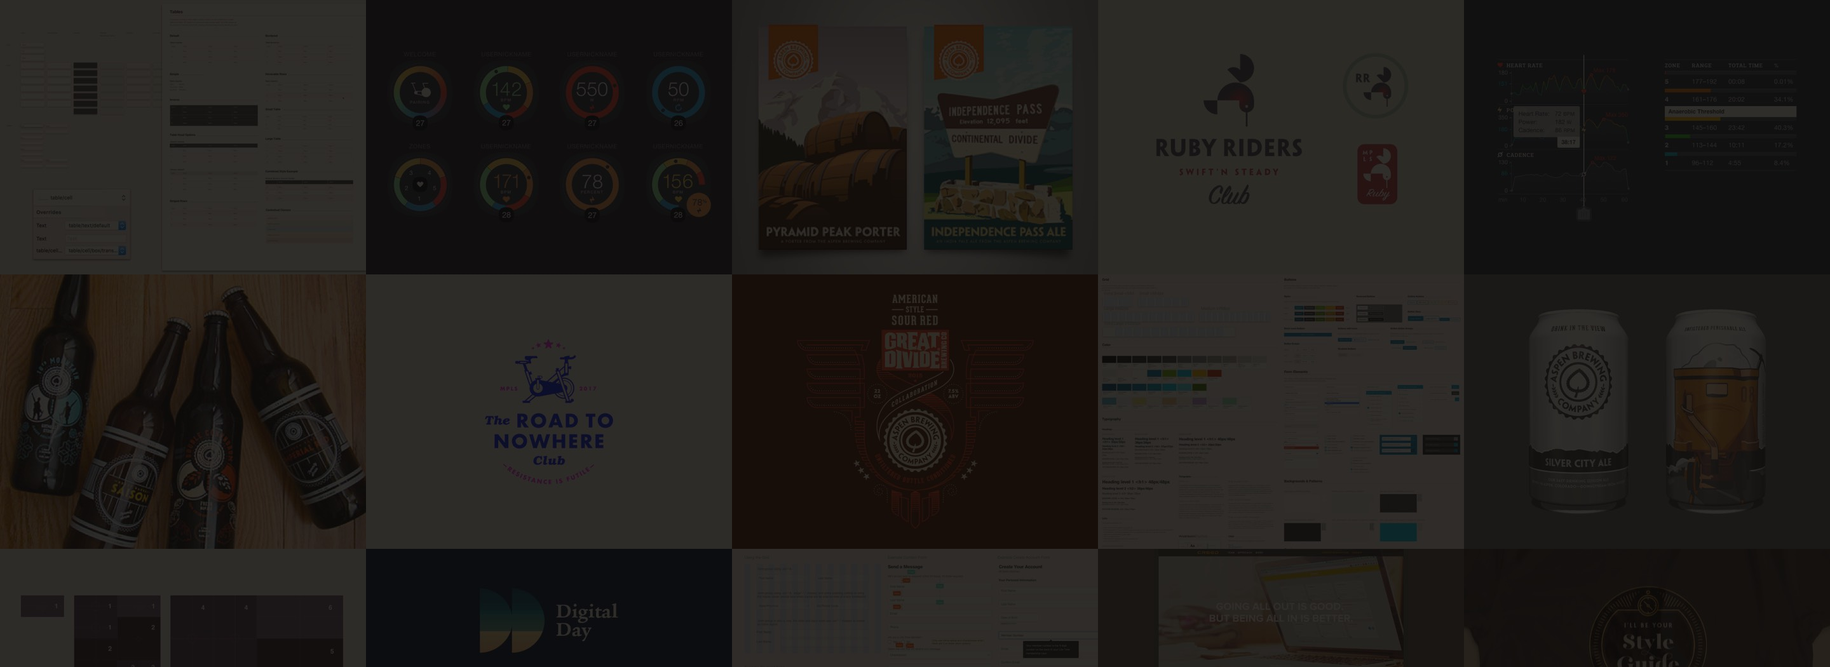
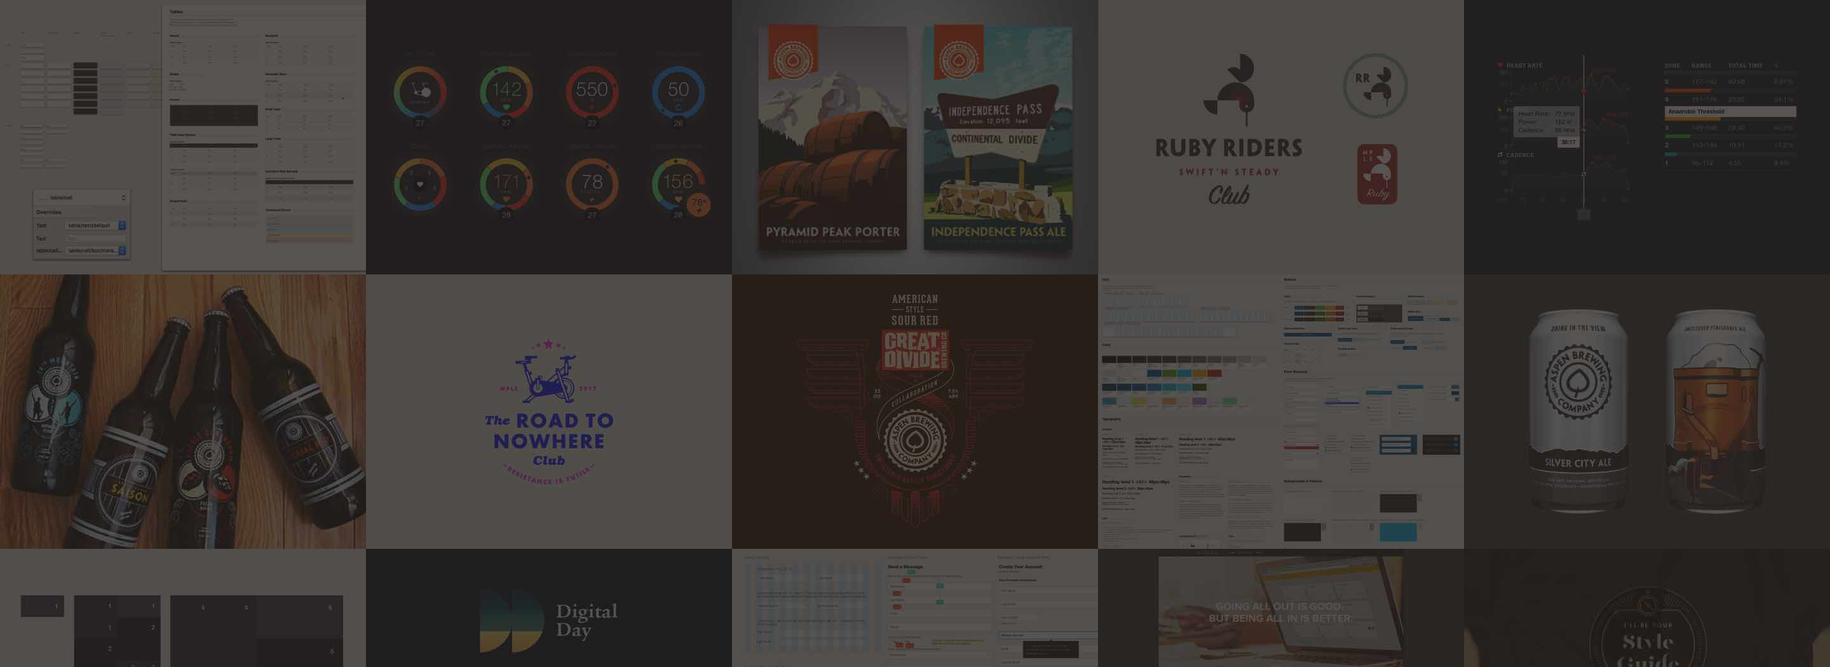
Lighten things up.

diff --git a/dist/css/style.css b/dist/css/style.css
@@ -1,2 +1,2 @@
-/*! normalize.scss v0.1.0 | MIT License | based on git.io/normalize */html{font-family:sans-serif;-ms-text-size-adjust:100%;-webkit-text-size-adjust:100%}body{margin:0}article,aside,details,figcaption,figure,footer,header,hgroup,main,menu,nav,section,summary{display:block}audio,canvas,progress,video{display:inline-block;vertical-align:baseline}audio:not([controls]){display:none;height:0}[hidden],template{display:none}a{background-color:transparent}a:active,a:hover{outline:0}abbr[title]{border-bottom:1px dotted}b,strong{font-weight:700}dfn{font-style:italic}h1{font-size:2em;margin:.67em 0}mark{background:#ff0;color:#000}small{font-size:80%}sub,sup{font-size:75%;line-height:0;position:relative;vertical-align:baseline}sup{top:-.5em}sub{bottom:-.25em}img{border:0}svg:not(:root){overflow:hidden}figure{margin:1em 40px}hr{box-sizing:content-box;height:0}pre{overflow:auto}code,kbd,pre,samp{font-family:monospace,monospace;font-size:1em}button,input,optgroup,select,textarea{color:inherit;font:inherit;margin:0}button{overflow:visible}button,select{text-transform:none}button,html input[type=button],input[type=reset],input[type=submit]{-webkit-appearance:button;cursor:pointer}button[disabled],html input[disabled]{cursor:default}button::-moz-focus-inner,input::-moz-focus-inner{border:0;padding:0}input{line-height:normal}input[type=checkbox],input[type=radio]{box-sizing:border-box;padding:0}input[type=number]::-webkit-inner-spin-button,input[type=number]::-webkit-outer-spin-button{height:auto}input[type=search]{-webkit-appearance:textfield;box-sizing:content-box}input[type=search]::-webkit-search-cancel-button,input[type=search]::-webkit-search-decoration{-webkit-appearance:none}fieldset{border:1px solid silver;margin:0 2px;padding:.35em .625em .75em}legend{border:0;padding:0}textarea{overflow:auto}optgroup{font-weight:700}table{border-collapse:collapse;border-spacing:0}td,th{padding:0}.wrap{height:100%;margin-left:auto;margin-right:auto;min-height:100%;width:100%}.wrap:after{content:' ';display:table;clear:both}.container{margin:0 auto;max-width:1200px;padding-left:16px;padding-right:16px;position:relative;width:100%}.container:after{content:' ';display:table;clear:both}.row{margin-left:-16px;margin-right:-16px;display:-webkit-box;display:-ms-flexbox;display:flex;-webkit-box-orient:horizontal;-webkit-box-direction:normal;-ms-flex-flow:row wrap;flex-flow:row wrap}.row:after{content:' ';display:table;clear:both}@media only screen and (min-width:768px){.row-collapse{margin-left:0;margin-right:0}}[class*=col-],[class^=col-]{box-sizing:border-box;float:left;min-height:1px;padding-left:16px;padding-right:16px;position:relative;width:100%}.col-collapse{padding-left:0;padding-right:0}@media only screen and (max-width:0){.col-xs-1{width:8.33333%}.col-xs-2{width:16.66667%}.col-xs-3{width:25%}.col-xs-4{width:33.33333%}.col-xs-5{width:41.66667%}.col-xs-6{width:50%}.col-xs-7{width:58.33333%}.col-xs-8{width:66.66667%}.col-xs-9{width:75%}.col-xs-10{width:83.33333%}.col-xs-11{width:91.66667%}.col-xs-12{width:100%}.col-xs-offset-1{margin-left:8.33333%}.col-xs-offset-2{margin-left:16.66667%}.col-xs-offset-3{margin-left:25%}.col-xs-offset-4{margin-left:33.33333%}.col-xs-offset-5{margin-left:41.66667%}.col-xs-offset-6{margin-left:50%}.col-xs-offset-7{margin-left:58.33333%}.col-xs-offset-8{margin-left:66.66667%}.col-xs-offset-9{margin-left:75%}.col-xs-offset-10{margin-left:83.33333%}.col-xs-offset-11{margin-left:91.66667%}.col-sm-offset-0{margin-left:0}.col-xs-push-1{left:8.33333%}.col-xs-push-2{left:16.66667%}.col-xs-push-3{left:25%}.col-xs-push-4{left:33.33333%}.col-xs-push-5{left:41.66667%}.col-xs-push-6{left:50%}.col-xs-push-7{left:58.33333%}.col-xs-push-8{left:66.66667%}.col-xs-push-9{left:75%}.col-xs-push-10{left:83.33333%}.col-xs-push-11{left:91.66667%}.col-xs-push-0{left:auto}.col-pull-1{right:8.33333%}.col-pull-2{right:16.66667%}.col-pull-3{right:25%}.col-pull-4{right:33.33333%}.col-pull-5{right:41.66667%}.col-pull-6{right:50%}.col-pull-7{right:58.33333%}.col-pull-8{right:66.66667%}.col-pull-9{right:75%}.col-pull-10{right:83.33333%}.col-pull-11{right:91.66667%}.col-xs-pull-0{right:auto}}@media only screen and (min-width:544px){.col-sm-1{width:8.33333%}.col-sm-2{width:16.66667%}.col-sm-3{width:25%}.col-sm-4{width:33.33333%}.col-sm-5{width:41.66667%}.col-sm-6{width:50%}.col-sm-7{width:58.33333%}.col-sm-8{width:66.66667%}.col-sm-9{width:75%}.col-sm-10{width:83.33333%}.col-sm-11{width:91.66667%}.col-sm-12{width:100%}.col-sm-offset-1{margin-left:8.33333%}.col-sm-offset-2{margin-left:16.66667%}.col-sm-offset-3{margin-left:25%}.col-sm-offset-4{margin-left:33.33333%}.col-sm-offset-5{margin-left:41.66667%}.col-sm-offset-6{margin-left:50%}.col-sm-offset-7{margin-left:58.33333%}.col-sm-offset-8{margin-left:66.66667%}.col-sm-offset-9{margin-left:75%}.col-sm-offset-10{margin-left:83.33333%}.col-sm-offset-11{margin-left:91.66667%}.col-sm-offset-0{margin-left:0}.col-sm-push-1{left:8.33333%}.col-sm-push-2{left:16.66667%}.col-sm-push-3{left:25%}.col-sm-push-4{left:33.33333%}.col-sm-push-5{left:41.66667%}.col-sm-push-6{left:50%}.col-sm-push-7{left:58.33333%}.col-sm-push-8{left:66.66667%}.col-sm-push-9{left:75%}.col-sm-push-10{left:83.33333%}.col-sm-push-11{left:91.66667%}.col-sm-push-0{left:auto}.col-sm-pull-1{right:8.33333%}.col-sm-pull-2{right:16.66667%}.col-sm-pull-3{right:25%}.col-sm-pull-4{right:33.33333%}.col-sm-pull-5{right:41.66667%}.col-sm-pull-6{right:50%}.col-sm-pull-7{right:58.33333%}.col-sm-pull-8{right:66.66667%}.col-sm-pull-9{right:75%}.col-sm-pull-10{right:83.33333%}.col-sm-pull-11{right:91.66667%}.col-sm-pull-0{right:auto}}@media only screen and (min-width:768px){.col-md-1{width:8.33333%}.col-md-2{width:16.66667%}.col-md-3{width:25%}.col-md-4{width:33.33333%}.col-md-5{width:41.66667%}.col-md-6{width:50%}.col-md-7{width:58.33333%}.col-md-8{width:66.66667%}.col-md-9{width:75%}.col-md-10{width:83.33333%}.col-md-11{width:91.66667%}.col-md-12{width:100%}.col-md-offset-1{margin-left:8.33333%}.col-md-offset-2{margin-left:16.66667%}.col-md-offset-3{margin-left:25%}.col-md-offset-4{margin-left:33.33333%}.col-md-offset-5{margin-left:41.66667%}.col-md-offset-6{margin-left:50%}.col-md-offset-7{margin-left:58.33333%}.col-md-offset-8{margin-left:66.66667%}.col-md-offset-9{margin-left:75%}.col-md-offset-10{margin-left:83.33333%}.col-md-offset-11{margin-left:91.66667%}.col-md-offset-0{margin-left:0}.col-md-push-1{left:8.33333%}.col-md-push-2{left:16.66667%}.col-md-push-3{left:25%}.col-md-push-4{left:33.33333%}.col-md-push-5{left:41.66667%}.col-md-push-6{left:50%}.col-md-push-7{left:58.33333%}.col-md-push-8{left:66.66667%}.col-md-push-9{left:75%}.col-md-push-10{left:83.33333%}.col-md-push-11{left:91.66667%}.col-md-push-0{left:auto}.col-md-pull-1{right:8.33333%}.col-md-pull-2{right:16.66667%}.col-md-pull-3{right:25%}.col-md-pull-4{right:33.33333%}.col-md-pull-5{right:41.66667%}.col-md-pull-6{right:50%}.col-md-pull-7{right:58.33333%}.col-md-pull-8{right:66.66667%}.col-md-pull-9{right:75%}.col-md-pull-10{right:83.33333%}.col-md-pull-11{right:91.66667%}.col-md-pull-0{right:auto}}@media only screen and (min-width:992px){.col-lg-1{width:8.33333%}.col-lg-2{width:16.66667%}.col-lg-3{width:25%}.col-lg-4{width:33.33333%}.col-lg-5{width:41.66667%}.col-lg-6{width:50%}.col-lg-7{width:58.33333%}.col-lg-8{width:66.66667%}.col-lg-9{width:75%}.col-lg-10{width:83.33333%}.col-lg-11{width:91.66667%}.col-lg-12{width:100%}.col-lg-offset-1{margin-left:8.33333%}.col-lg-offset-2{margin-left:16.66667%}.col-lg-offset-3{margin-left:25%}.col-lg-offset-4{margin-left:33.33333%}.col-lg-offset-5{margin-left:41.66667%}.col-lg-offset-6{margin-left:50%}.col-lg-offset-7{margin-left:58.33333%}.col-lg-offset-8{margin-left:66.66667%}.col-lg-offset-9{margin-left:75%}.col-lg-offset-10{margin-left:83.33333%}.col-lg-offset-11{margin-left:91.66667%}.col-lg-offset-0{margin-left:0}.col-lg-push-1{left:8.33333%}.col-lg-push-2{left:16.66667%}.col-lg-push-3{left:25%}.col-lg-push-4{left:33.33333%}.col-lg-push-5{left:41.66667%}.col-lg-push-6{left:50%}.col-lg-push-7{left:58.33333%}.col-lg-push-8{left:66.66667%}.col-lg-push-9{left:75%}.col-lg-push-10{left:83.33333%}.col-lg-push-11{left:91.66667%}.col-lg-push-0{left:auto}.col-lg-pull-1{right:8.33333%}.col-lg-pull-2{right:16.66667%}.col-lg-pull-3{right:25%}.col-lg-pull-4{right:33.33333%}.col-lg-pull-5{right:41.66667%}.col-lg-pull-6{right:50%}.col-lg-pull-7{right:58.33333%}.col-lg-pull-8{right:66.66667%}.col-lg-pull-9{right:75%}.col-lg-pull-10{right:83.33333%}.col-lg-pull-11{right:91.66667%}.col-lg-pull-0{right:auto}}@media only screen and (min-width:1200px){.col-xl-1{width:8.33333%}.col-xl-2{width:16.66667%}.col-xl-3{width:25%}.col-xl-4{width:33.33333%}.col-xl-5{width:41.66667%}.col-xl-6{width:50%}.col-xl-7{width:58.33333%}.col-xl-8{width:66.66667%}.col-xl-9{width:75%}.col-xl-10{width:83.33333%}.col-xl-11{width:91.66667%}.col-xl-12{width:100%}.col-xl-offset-1{margin-left:8.33333%}.col-xl-offset-2{margin-left:16.66667%}.col-xl-offset-3{margin-left:25%}.col-xl-offset-4{margin-left:33.33333%}.col-xl-offset-5{margin-left:41.66667%}.col-xl-offset-6{margin-left:50%}.col-xl-offset-7{margin-left:58.33333%}.col-xl-offset-8{margin-left:66.66667%}.col-xl-offset-9{margin-left:75%}.col-xl-offset-10{margin-left:83.33333%}.col-xl-offset-11{margin-left:91.66667%}.col-xl-offset-0{margin-left:0}.col-xl-push-1{left:8.33333%}.col-xl-push-2{left:16.66667%}.col-xl-push-3{left:25%}.col-xl-push-4{left:33.33333%}.col-xl-push-5{left:41.66667%}.col-xl-push-6{left:50%}.col-xl-push-7{left:58.33333%}.col-xl-push-8{left:66.66667%}.col-xl-push-9{left:75%}.col-xl-push-10{left:83.33333%}.col-xl-push-11{left:91.66667%}.col-xl-push-0{left:auto}.col-xl-pull-1{right:8.33333%}.col-xl-pull-2{right:16.66667%}.col-xl-pull-3{right:25%}.col-xl-pull-4{right:33.33333%}.col-xl-pull-5{right:41.66667%}.col-xl-pull-6{right:50%}.col-xl-pull-7{right:58.33333%}.col-xl-pull-8{right:66.66667%}.col-xl-pull-9{right:75%}.col-xl-pull-10{right:83.33333%}.col-xl-pull-11{right:91.66667%}.col-xl-pull-0{right:auto}}*,::after,::before{box-sizing:border-box}html{font-size:100%;height:100%}body{background-color:#e7e6e3;color:#fff;display:-webkit-box;display:-ms-flexbox;display:flex;-webkit-box-orient:vertical;-webkit-box-direction:normal;-ms-flex-flow:column;flex-flow:column;font-size:1.25rem;font-family:Roboto,"Helvetica Neue",Helvetica,Arial,sans-serif;line-height:1.5;min-height:100%;position:relative;-webkit-font-smoothing:antialiased}@media only screen and (min-width:768px){body{font-size:1.5rem}}.container{overflow:hidden}.header{background-color:#f7f7f7;display:-webkit-box;display:-ms-flexbox;display:flex;-webkit-box-pack:justify;-ms-flex-pack:justify;justify-content:space-between}.brand{background-color:#100f0d;line-height:0;padding:.75rem 1.25rem}.p-nav{-ms-flex-item-align:center;-ms-grid-row-align:center;align-self:center;font-size:1rem;padding-right:1rem}@media only screen and (min-width:768px){.p-nav{font-size:1.25rem;padding-right:1.5rem}}.p-nav-list{list-style:none;margin:0;padding:0}.p-nav-item{display:inline-block;vertical-align:middle}.p-nav-item:not(:last-child){margin-right:.75rem}.p-nav-item a{border-bottom:2px solid transparent;color:#0194f2;text-decoration:none;-webkit-transition:border .2s linear,color .2s linear;transition:border .2s linear,color .2s linear}.p-nav-item a:focus,.p-nav-item a:hover{border-bottom:4px solid #015c97;color:#015c97}.p-nav-item a:active{border-bottom:6px solid #004978;color:#004978}.p-nav-item a.is-current{color:#100f0d;border:0}.main-landing{display:-webkit-box;display:-ms-flexbox;display:flex;-webkit-box-flex:1;-ms-flex:1;flex:1;-webkit-box-orient:vertical;-webkit-box-direction:normal;-ms-flex-direction:column;flex-direction:column}.main-content{text-align:left}.section{-webkit-box-align:center;-ms-flex-align:center;align-items:center;display:-webkit-box;display:-ms-flexbox;display:flex;-webkit-box-flex:1;-ms-flex:1;flex:1;-webkit-box-orient:vertical;-webkit-box-direction:normal;-ms-flex-direction:column;flex-direction:column;-webkit-box-pack:center;-ms-flex-pack:center;justify-content:center;text-align:center}.s1{background:#100f0d url(/dist/img/jebg.jpg) no-repeat top center;background-size:cover;-webkit-box-flex:2;-ms-flex:2;flex:2;padding:0 2rem}.s1 h1{margin-bottom:0}.s1 p{font-weight:300;letter-spacing:.04em;max-width:760px}@media only screen and (min-width:768px){.s1{background-image:url(/dist/img/jebg-md.jpg)}}@media only screen and (min-width:992px){.s1{background-image:url(/dist/img/jebg-lg.jpg)}}.s2{background-color:#100f0d}[aria-label=connect] a:not(:last-child){margin-right:2rem}.case-1{background-color:#e3e3e3}.case-2{background-color:#cecece}.case-3{background-color:#bababa}.case-4{background-color:#a5a5a5}.case-5{background-color:#919191}.footer{background-color:#181614;color:#f7f7f7;text-align:center}@media only screen and (min-width:768px){.footer{background-color:transparent;position:absolute;bottom:0}}.colophon{font-size:.813rem;margin:.5rem 1rem}@media only screen and (min-width:768px){.colophon{margin:1rem 1rem 1rem 1.5rem}}
+/*! normalize.scss v0.1.0 | MIT License | based on git.io/normalize */html{font-family:sans-serif;-ms-text-size-adjust:100%;-webkit-text-size-adjust:100%}body{margin:0}article,aside,details,figcaption,figure,footer,header,hgroup,main,menu,nav,section,summary{display:block}audio,canvas,progress,video{display:inline-block;vertical-align:baseline}audio:not([controls]){display:none;height:0}[hidden],template{display:none}a{background-color:transparent}a:active,a:hover{outline:0}abbr[title]{border-bottom:1px dotted}b,strong{font-weight:700}dfn{font-style:italic}h1{font-size:2em;margin:.67em 0}mark{background:#ff0;color:#000}small{font-size:80%}sub,sup{font-size:75%;line-height:0;position:relative;vertical-align:baseline}sup{top:-.5em}sub{bottom:-.25em}img{border:0}svg:not(:root){overflow:hidden}figure{margin:1em 40px}hr{box-sizing:content-box;height:0}pre{overflow:auto}code,kbd,pre,samp{font-family:monospace,monospace;font-size:1em}button,input,optgroup,select,textarea{color:inherit;font:inherit;margin:0}button{overflow:visible}button,select{text-transform:none}button,html input[type=button],input[type=reset],input[type=submit]{-webkit-appearance:button;cursor:pointer}button[disabled],html input[disabled]{cursor:default}button::-moz-focus-inner,input::-moz-focus-inner{border:0;padding:0}input{line-height:normal}input[type=checkbox],input[type=radio]{box-sizing:border-box;padding:0}input[type=number]::-webkit-inner-spin-button,input[type=number]::-webkit-outer-spin-button{height:auto}input[type=search]{-webkit-appearance:textfield;box-sizing:content-box}input[type=search]::-webkit-search-cancel-button,input[type=search]::-webkit-search-decoration{-webkit-appearance:none}fieldset{border:1px solid silver;margin:0 2px;padding:.35em .625em .75em}legend{border:0;padding:0}textarea{overflow:auto}optgroup{font-weight:700}table{border-collapse:collapse;border-spacing:0}td,th{padding:0}.wrap{height:100%;margin-left:auto;margin-right:auto;min-height:100%;width:100%}.wrap:after{content:' ';display:table;clear:both}.container{margin:0 auto;max-width:1200px;padding-left:16px;padding-right:16px;position:relative;width:100%}.container:after{content:' ';display:table;clear:both}.row{margin-left:-16px;margin-right:-16px;display:-webkit-box;display:-ms-flexbox;display:flex;-webkit-box-orient:horizontal;-webkit-box-direction:normal;-ms-flex-flow:row wrap;flex-flow:row wrap}.row:after{content:' ';display:table;clear:both}@media only screen and (min-width:768px){.row-collapse{margin-left:0;margin-right:0}}[class*=col-],[class^=col-]{box-sizing:border-box;float:left;min-height:1px;padding-left:16px;padding-right:16px;position:relative;width:100%}.col-collapse{padding-left:0;padding-right:0}@media only screen and (max-width:0){.col-xs-1{width:8.33333%}.col-xs-2{width:16.66667%}.col-xs-3{width:25%}.col-xs-4{width:33.33333%}.col-xs-5{width:41.66667%}.col-xs-6{width:50%}.col-xs-7{width:58.33333%}.col-xs-8{width:66.66667%}.col-xs-9{width:75%}.col-xs-10{width:83.33333%}.col-xs-11{width:91.66667%}.col-xs-12{width:100%}.col-xs-offset-1{margin-left:8.33333%}.col-xs-offset-2{margin-left:16.66667%}.col-xs-offset-3{margin-left:25%}.col-xs-offset-4{margin-left:33.33333%}.col-xs-offset-5{margin-left:41.66667%}.col-xs-offset-6{margin-left:50%}.col-xs-offset-7{margin-left:58.33333%}.col-xs-offset-8{margin-left:66.66667%}.col-xs-offset-9{margin-left:75%}.col-xs-offset-10{margin-left:83.33333%}.col-xs-offset-11{margin-left:91.66667%}.col-sm-offset-0{margin-left:0}.col-xs-push-1{left:8.33333%}.col-xs-push-2{left:16.66667%}.col-xs-push-3{left:25%}.col-xs-push-4{left:33.33333%}.col-xs-push-5{left:41.66667%}.col-xs-push-6{left:50%}.col-xs-push-7{left:58.33333%}.col-xs-push-8{left:66.66667%}.col-xs-push-9{left:75%}.col-xs-push-10{left:83.33333%}.col-xs-push-11{left:91.66667%}.col-xs-push-0{left:auto}.col-pull-1{right:8.33333%}.col-pull-2{right:16.66667%}.col-pull-3{right:25%}.col-pull-4{right:33.33333%}.col-pull-5{right:41.66667%}.col-pull-6{right:50%}.col-pull-7{right:58.33333%}.col-pull-8{right:66.66667%}.col-pull-9{right:75%}.col-pull-10{right:83.33333%}.col-pull-11{right:91.66667%}.col-xs-pull-0{right:auto}}@media only screen and (min-width:544px){.col-sm-1{width:8.33333%}.col-sm-2{width:16.66667%}.col-sm-3{width:25%}.col-sm-4{width:33.33333%}.col-sm-5{width:41.66667%}.col-sm-6{width:50%}.col-sm-7{width:58.33333%}.col-sm-8{width:66.66667%}.col-sm-9{width:75%}.col-sm-10{width:83.33333%}.col-sm-11{width:91.66667%}.col-sm-12{width:100%}.col-sm-offset-1{margin-left:8.33333%}.col-sm-offset-2{margin-left:16.66667%}.col-sm-offset-3{margin-left:25%}.col-sm-offset-4{margin-left:33.33333%}.col-sm-offset-5{margin-left:41.66667%}.col-sm-offset-6{margin-left:50%}.col-sm-offset-7{margin-left:58.33333%}.col-sm-offset-8{margin-left:66.66667%}.col-sm-offset-9{margin-left:75%}.col-sm-offset-10{margin-left:83.33333%}.col-sm-offset-11{margin-left:91.66667%}.col-sm-offset-0{margin-left:0}.col-sm-push-1{left:8.33333%}.col-sm-push-2{left:16.66667%}.col-sm-push-3{left:25%}.col-sm-push-4{left:33.33333%}.col-sm-push-5{left:41.66667%}.col-sm-push-6{left:50%}.col-sm-push-7{left:58.33333%}.col-sm-push-8{left:66.66667%}.col-sm-push-9{left:75%}.col-sm-push-10{left:83.33333%}.col-sm-push-11{left:91.66667%}.col-sm-push-0{left:auto}.col-sm-pull-1{right:8.33333%}.col-sm-pull-2{right:16.66667%}.col-sm-pull-3{right:25%}.col-sm-pull-4{right:33.33333%}.col-sm-pull-5{right:41.66667%}.col-sm-pull-6{right:50%}.col-sm-pull-7{right:58.33333%}.col-sm-pull-8{right:66.66667%}.col-sm-pull-9{right:75%}.col-sm-pull-10{right:83.33333%}.col-sm-pull-11{right:91.66667%}.col-sm-pull-0{right:auto}}@media only screen and (min-width:768px){.col-md-1{width:8.33333%}.col-md-2{width:16.66667%}.col-md-3{width:25%}.col-md-4{width:33.33333%}.col-md-5{width:41.66667%}.col-md-6{width:50%}.col-md-7{width:58.33333%}.col-md-8{width:66.66667%}.col-md-9{width:75%}.col-md-10{width:83.33333%}.col-md-11{width:91.66667%}.col-md-12{width:100%}.col-md-offset-1{margin-left:8.33333%}.col-md-offset-2{margin-left:16.66667%}.col-md-offset-3{margin-left:25%}.col-md-offset-4{margin-left:33.33333%}.col-md-offset-5{margin-left:41.66667%}.col-md-offset-6{margin-left:50%}.col-md-offset-7{margin-left:58.33333%}.col-md-offset-8{margin-left:66.66667%}.col-md-offset-9{margin-left:75%}.col-md-offset-10{margin-left:83.33333%}.col-md-offset-11{margin-left:91.66667%}.col-md-offset-0{margin-left:0}.col-md-push-1{left:8.33333%}.col-md-push-2{left:16.66667%}.col-md-push-3{left:25%}.col-md-push-4{left:33.33333%}.col-md-push-5{left:41.66667%}.col-md-push-6{left:50%}.col-md-push-7{left:58.33333%}.col-md-push-8{left:66.66667%}.col-md-push-9{left:75%}.col-md-push-10{left:83.33333%}.col-md-push-11{left:91.66667%}.col-md-push-0{left:auto}.col-md-pull-1{right:8.33333%}.col-md-pull-2{right:16.66667%}.col-md-pull-3{right:25%}.col-md-pull-4{right:33.33333%}.col-md-pull-5{right:41.66667%}.col-md-pull-6{right:50%}.col-md-pull-7{right:58.33333%}.col-md-pull-8{right:66.66667%}.col-md-pull-9{right:75%}.col-md-pull-10{right:83.33333%}.col-md-pull-11{right:91.66667%}.col-md-pull-0{right:auto}}@media only screen and (min-width:992px){.col-lg-1{width:8.33333%}.col-lg-2{width:16.66667%}.col-lg-3{width:25%}.col-lg-4{width:33.33333%}.col-lg-5{width:41.66667%}.col-lg-6{width:50%}.col-lg-7{width:58.33333%}.col-lg-8{width:66.66667%}.col-lg-9{width:75%}.col-lg-10{width:83.33333%}.col-lg-11{width:91.66667%}.col-lg-12{width:100%}.col-lg-offset-1{margin-left:8.33333%}.col-lg-offset-2{margin-left:16.66667%}.col-lg-offset-3{margin-left:25%}.col-lg-offset-4{margin-left:33.33333%}.col-lg-offset-5{margin-left:41.66667%}.col-lg-offset-6{margin-left:50%}.col-lg-offset-7{margin-left:58.33333%}.col-lg-offset-8{margin-left:66.66667%}.col-lg-offset-9{margin-left:75%}.col-lg-offset-10{margin-left:83.33333%}.col-lg-offset-11{margin-left:91.66667%}.col-lg-offset-0{margin-left:0}.col-lg-push-1{left:8.33333%}.col-lg-push-2{left:16.66667%}.col-lg-push-3{left:25%}.col-lg-push-4{left:33.33333%}.col-lg-push-5{left:41.66667%}.col-lg-push-6{left:50%}.col-lg-push-7{left:58.33333%}.col-lg-push-8{left:66.66667%}.col-lg-push-9{left:75%}.col-lg-push-10{left:83.33333%}.col-lg-push-11{left:91.66667%}.col-lg-push-0{left:auto}.col-lg-pull-1{right:8.33333%}.col-lg-pull-2{right:16.66667%}.col-lg-pull-3{right:25%}.col-lg-pull-4{right:33.33333%}.col-lg-pull-5{right:41.66667%}.col-lg-pull-6{right:50%}.col-lg-pull-7{right:58.33333%}.col-lg-pull-8{right:66.66667%}.col-lg-pull-9{right:75%}.col-lg-pull-10{right:83.33333%}.col-lg-pull-11{right:91.66667%}.col-lg-pull-0{right:auto}}@media only screen and (min-width:1200px){.col-xl-1{width:8.33333%}.col-xl-2{width:16.66667%}.col-xl-3{width:25%}.col-xl-4{width:33.33333%}.col-xl-5{width:41.66667%}.col-xl-6{width:50%}.col-xl-7{width:58.33333%}.col-xl-8{width:66.66667%}.col-xl-9{width:75%}.col-xl-10{width:83.33333%}.col-xl-11{width:91.66667%}.col-xl-12{width:100%}.col-xl-offset-1{margin-left:8.33333%}.col-xl-offset-2{margin-left:16.66667%}.col-xl-offset-3{margin-left:25%}.col-xl-offset-4{margin-left:33.33333%}.col-xl-offset-5{margin-left:41.66667%}.col-xl-offset-6{margin-left:50%}.col-xl-offset-7{margin-left:58.33333%}.col-xl-offset-8{margin-left:66.66667%}.col-xl-offset-9{margin-left:75%}.col-xl-offset-10{margin-left:83.33333%}.col-xl-offset-11{margin-left:91.66667%}.col-xl-offset-0{margin-left:0}.col-xl-push-1{left:8.33333%}.col-xl-push-2{left:16.66667%}.col-xl-push-3{left:25%}.col-xl-push-4{left:33.33333%}.col-xl-push-5{left:41.66667%}.col-xl-push-6{left:50%}.col-xl-push-7{left:58.33333%}.col-xl-push-8{left:66.66667%}.col-xl-push-9{left:75%}.col-xl-push-10{left:83.33333%}.col-xl-push-11{left:91.66667%}.col-xl-push-0{left:auto}.col-xl-pull-1{right:8.33333%}.col-xl-pull-2{right:16.66667%}.col-xl-pull-3{right:25%}.col-xl-pull-4{right:33.33333%}.col-xl-pull-5{right:41.66667%}.col-xl-pull-6{right:50%}.col-xl-pull-7{right:58.33333%}.col-xl-pull-8{right:66.66667%}.col-xl-pull-9{right:75%}.col-xl-pull-10{right:83.33333%}.col-xl-pull-11{right:91.66667%}.col-xl-pull-0{right:auto}}*,::after,::before{box-sizing:border-box}html{font-size:100%;height:100%}body{background-color:#e7e6e3;color:#fff;display:-webkit-box;display:-ms-flexbox;display:flex;-webkit-box-orient:vertical;-webkit-box-direction:normal;-ms-flex-flow:column;flex-flow:column;font-size:1.25rem;font-family:Roboto,"Helvetica Neue",Helvetica,Arial,sans-serif;line-height:1.5;min-height:100%;position:relative;-webkit-font-smoothing:antialiased}@media only screen and (min-width:768px){body{font-size:1.5rem}}.container{overflow:hidden}.header{background-color:#f7f7f7;display:-webkit-box;display:-ms-flexbox;display:flex;-webkit-box-pack:justify;-ms-flex-pack:justify;justify-content:space-between}.brand{background-color:#262320;line-height:0;padding:.75rem 1.25rem}.p-nav{-ms-flex-item-align:center;-ms-grid-row-align:center;align-self:center;font-size:1rem;padding-right:1rem}@media only screen and (min-width:768px){.p-nav{font-size:1.25rem;padding-right:1.5rem}}.p-nav-list{list-style:none;margin:0;padding:0}.p-nav-item{display:inline-block;vertical-align:middle}.p-nav-item:not(:last-child){margin-right:.75rem}.p-nav-item a{border-bottom:2px solid transparent;color:#0194f2;text-decoration:none;-webkit-transition:border .2s linear,color .2s linear;transition:border .2s linear,color .2s linear}.p-nav-item a:focus,.p-nav-item a:hover{border-bottom:4px solid #015c97;color:#015c97}.p-nav-item a:active{border-bottom:6px solid #004978;color:#004978}.p-nav-item a.is-current{color:#100f0d;border:0}.main-landing{display:-webkit-box;display:-ms-flexbox;display:flex;-webkit-box-flex:1;-ms-flex:1;flex:1;-webkit-box-orient:vertical;-webkit-box-direction:normal;-ms-flex-direction:column;flex-direction:column}.main-content{text-align:left}.section{-webkit-box-align:center;-ms-flex-align:center;align-items:center;display:-webkit-box;display:-ms-flexbox;display:flex;-webkit-box-flex:1;-ms-flex:1;flex:1;-webkit-box-orient:vertical;-webkit-box-direction:normal;-ms-flex-direction:column;flex-direction:column;-webkit-box-pack:center;-ms-flex-pack:center;justify-content:center;text-align:center}.s1{background:#262320 url(/dist/img/jebg.jpg) no-repeat top center;background-size:cover;-webkit-box-flex:2;-ms-flex:2;flex:2;padding:0 2rem}.s1 h1{margin-bottom:0}.s1 p{font-weight:300;letter-spacing:.04em;max-width:760px}@media only screen and (min-width:768px){.s1{background-image:url(/dist/img/jebg-md.jpg)}}@media only screen and (min-width:992px){.s1{background-image:url(/dist/img/jebg-lg.jpg)}}.s2{background-color:#262320}[aria-label=connect] a:not(:last-child){margin-right:2rem}.case-1{background-color:#e3e3e3}.case-2{background-color:#cecece}.case-3{background-color:#bababa}.case-4{background-color:#a5a5a5}.case-5{background-color:#919191}.footer{background-color:#181614;color:#f7f7f7;text-align:center}@media only screen and (min-width:768px){.footer{background-color:transparent;position:absolute;bottom:0}}.colophon{font-size:.813rem;margin:.5rem 1rem}@media only screen and (min-width:768px){.colophon{margin:1rem 1rem 1rem 1.5rem}}
 /*# sourceMappingURL=maps/style.css.map */

diff --git a/scss/_layout.scss b/scss/_layout.scss
@@ -20,7 +20,7 @@
 }
 
 .s1 {
-	background: $black url('/dist/img/jebg.jpg') no-repeat top center;
+	background: $smoke url('/dist/img/jebg.jpg') no-repeat top center;
 	background-size: cover;
 	flex: 2;
 	padding: 0 2rem;
@@ -45,7 +45,7 @@
 }
 
 .s2 {
-	background-color: $black;
+	background-color: $smoke;
 }
 
 [aria-label="connect"] {

diff --git a/scss/_header.scss b/scss/_header.scss
@@ -8,7 +8,7 @@
 }
 
 .brand {
-	background-color: $black;
+	background-color: $smoke;
 	line-height: 0;
 	padding: 0.75rem 1.25rem;
 }
